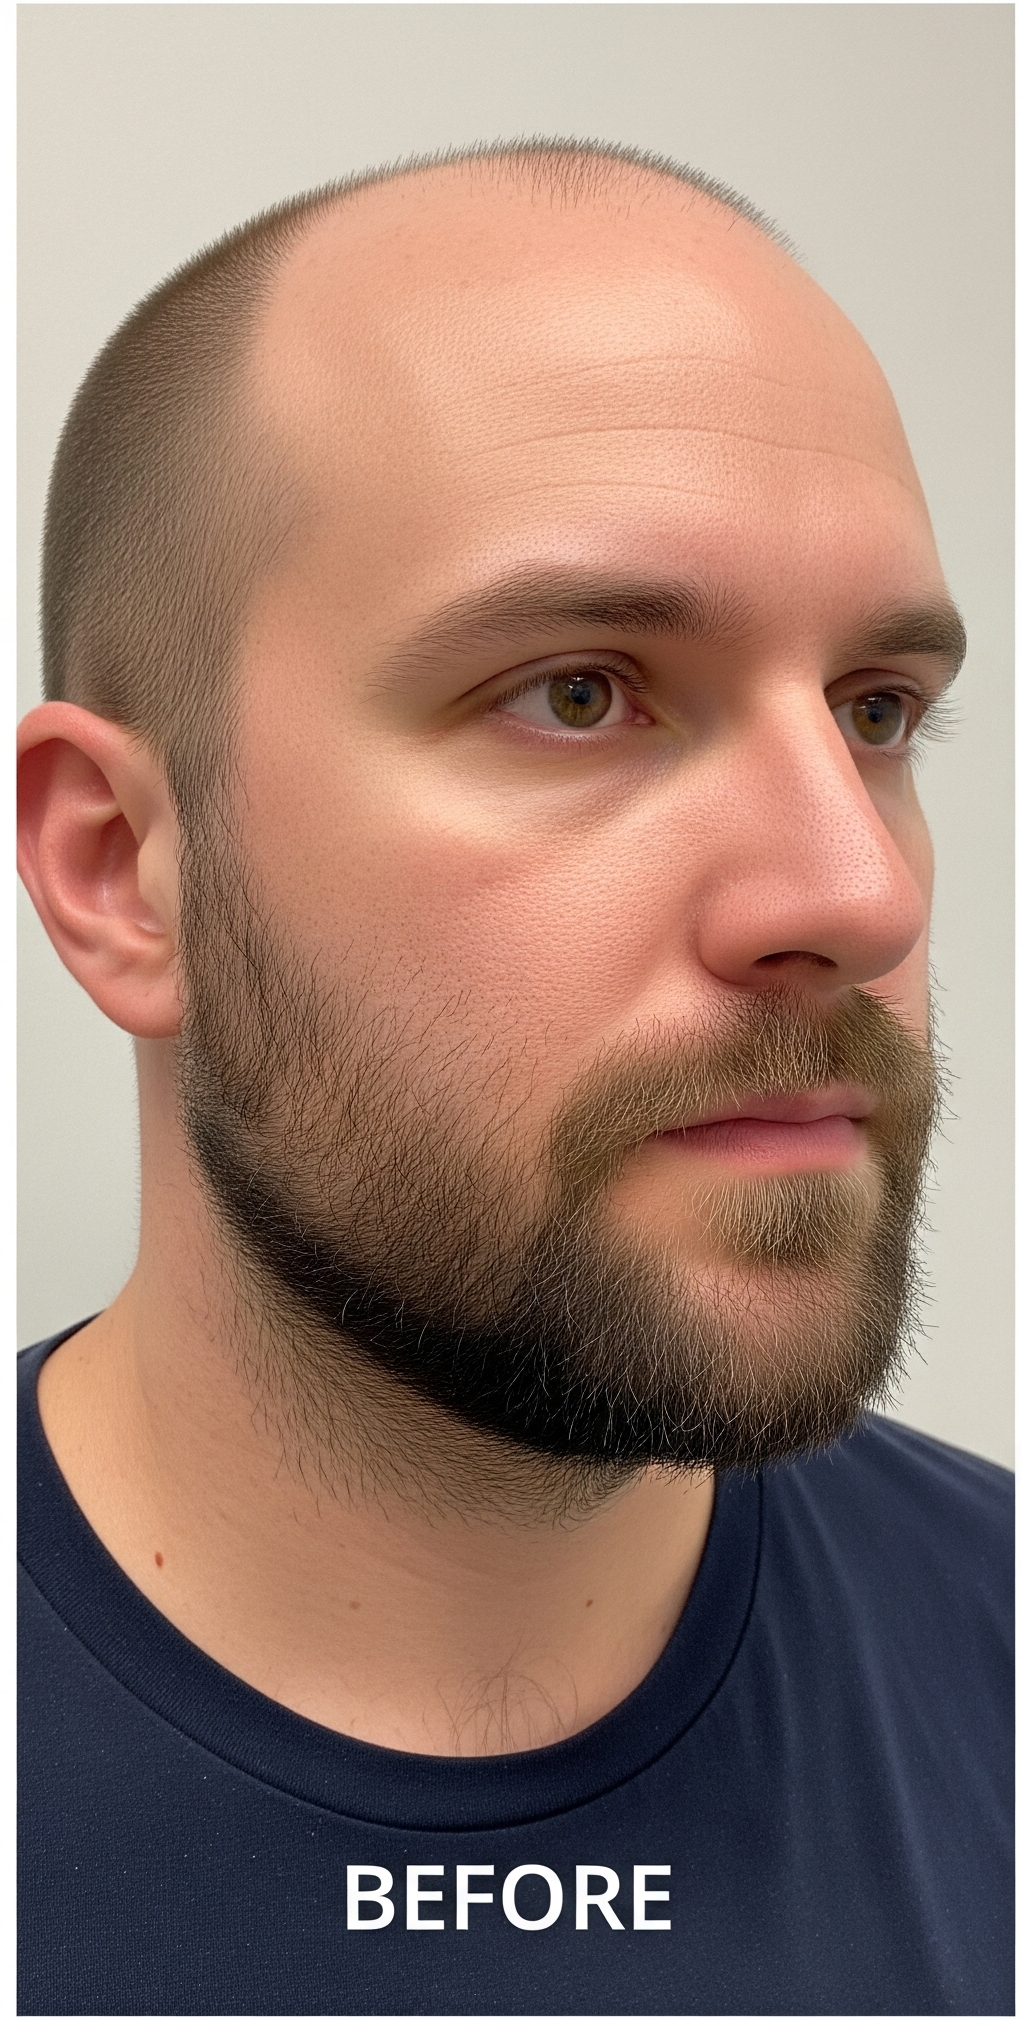
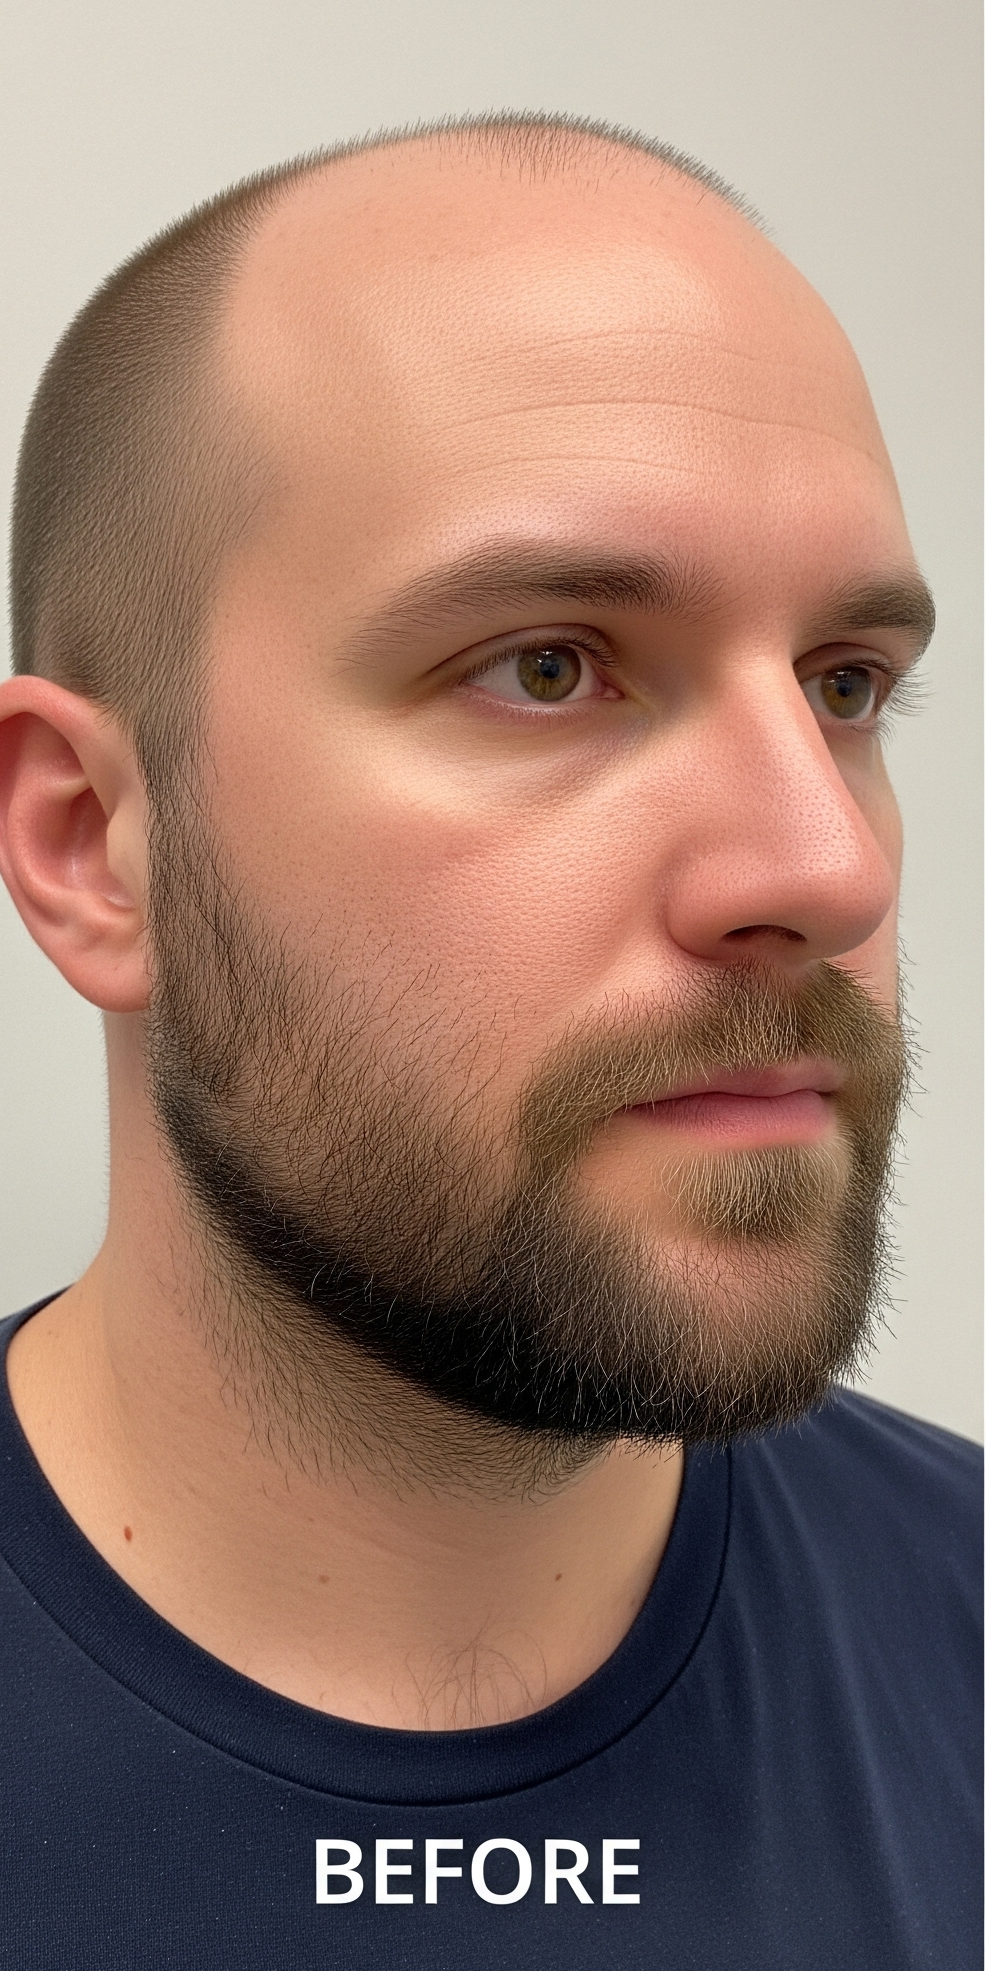
The NextJS app server is having trouble starting. Please identify what c

diff --git a/src/app/page.tsx b/src/app/page.tsx
@@ -3,32 +3,32 @@
 
 import * as React from 'react';
 import { useState, useEffect } from 'react';
+import dynamic from 'next/dynamic';
 import { Button } from "@/components/ui/button";
 import { Card, CardContent, CardHeader, CardTitle, CardDescription, CardFooter } from "@/components/ui/card";
-import {
-  Carousel,
-  CarouselContent,
-  CarouselItem,
-  CarouselNext,
-  CarouselPrevious,
-} from "@/components/ui/carousel";
-// Removed Autoplay import
 import { serviceData, allServices } from "@/lib/services"; 
 import Link from "next/link";
 import Image from "next/image";
 import { Cpu, Leaf, UsersRound, Star, ArrowRight } from "lucide-react";
 
+const DynamicCarousel = dynamic(() => import('@/components/ui/carousel').then(mod => mod.Carousel), { 
+  ssr: false, 
+  loading: () => <div className="text-center py-8"><p className="text-muted-foreground">Loading transformations gallery...</p></div> 
+});
+const DynamicCarouselContent = dynamic(() => import('@/components/ui/carousel').then(mod => mod.CarouselContent), { ssr: false });
+const DynamicCarouselItem = dynamic(() => import('@/components/ui/carousel').then(mod => mod.CarouselItem), { ssr: false });
+const DynamicCarouselPrevious = dynamic(() => import('@/components/ui/carousel').then(mod => mod.CarouselPrevious), { ssr: false });
+const DynamicCarouselNext = dynamic(() => import('@/components/ui/carousel').then(mod => mod.CarouselNext), { ssr: false });
+
+
 export default function HomePage() {
   const featuredServiceCategories = serviceData.slice(0, 3);
   const [isClient, setIsClient] = useState(false);
-  // Removed autoplayPluginRef
 
   useEffect(() => {
     setIsClient(true);
-    // Removed autoplay plugin initialization logic
   }, []);
 
-  // Use data from allServices for the carousel, increased to 6 items
   const transformations = allServices.slice(0, 6).map(service => ({
     id: service.id,
     treatment: service.name,
@@ -137,8 +137,8 @@ export default function HomePage() {
             </div>
             <div className="relative h-64 md:h-full w-full min-h-[300px] md:min-h-full">
               <Image
-                src="/images/prp-hair2.png"
-                alt="Welcoming clinic interior"
+                src="/images/about-us.jpeg"
+                alt="Nice looking women after treatments"
                 fill
                 className="object-cover"
                 data-ai-hint="clinic interior"
@@ -182,59 +182,51 @@ export default function HomePage() {
         <h2 className="text-4xl font-headline font-bold text-center mb-12 text-primary">
           Witness the Transformations
         </h2>
-        {isClient ? (
-          <Carousel
-            // Removed plugins prop
-            className="w-full max-w-xs sm:max-w-md md:max-w-xl lg:max-w-3xl xl:max-w-5xl mx-auto"
-            // Removed onMouseEnter and onMouseLeave
-            opts={{
-              align: "start",
-              loop: true,
-            }}
-          >
-            <CarouselContent className="-ml-1">
-              {transformations.map((transform, index) => (
-                <CarouselItem key={transform.id} className="pl-1 md:basis-1/2 lg:basis-1/3">
-                  <div className="p-1 h-full">
-                    <Card className="bg-card shadow-lg rounded-xl overflow-hidden animate-fadeIn h-full flex flex-col" style={{ animationDelay: `${0.1 * index}s` }}>
-                      <CardHeader>
-                        <CardTitle className="font-headline text-xl text-foreground">{transform.treatment}</CardTitle>
-                      </CardHeader>
-                      <CardContent className="flex-grow">
-                        <div className="grid grid-cols-2 gap-4 mb-4">
-                          <div>
-                            <p className="text-sm font-semibold text-center text-muted-foreground mb-1">Before</p>
-                            <div className="relative aspect-square w-full rounded-md overflow-hidden">
-                              <Image src={transform.beforeImageUrl} alt={`Before ${transform.treatment}`} fill className="object-cover" data-ai-hint={transform.beforeHint} />
-                            </div>
-                          </div>
-                          <div>
-                            <p className="text-sm font-semibold text-center text-muted-foreground mb-1">After</p>
-                            <div className="relative aspect-square w-full rounded-md overflow-hidden">
-                              <Image src={transform.afterImageUrl} alt={`After ${transform.treatment}`} fill className="object-cover" data-ai-hint={transform.afterHint} />
-                            </div>
+        <DynamicCarousel
+          className="w-full max-w-xs sm:max-w-md md:max-w-xl lg:max-w-3xl xl:max-w-5xl mx-auto"
+          opts={{
+            align: "start",
+            loop: true,
+          }}
+        >
+          <DynamicCarouselContent className="-ml-1">
+            {transformations.map((transform, index) => (
+              <DynamicCarouselItem key={transform.id} className="pl-1 md:basis-1/2 lg:basis-1/3">
+                <div className="p-1 h-full">
+                  <Card className="bg-card shadow-lg rounded-xl overflow-hidden animate-fadeIn h-full flex flex-col" style={{ animationDelay: `${0.1 * index}s` }}>
+                    <CardHeader>
+                      <CardTitle className="font-headline text-xl text-foreground">{transform.treatment}</CardTitle>
+                    </CardHeader>
+                    <CardContent className="flex-grow">
+                      <div className="grid grid-cols-2 gap-4 mb-4">
+                        <div>
+                          <p className="text-sm font-semibold text-center text-muted-foreground mb-1">Before</p>
+                          <div className="relative aspect-square w-full rounded-md overflow-hidden">
+                            <Image src={transform.beforeImageUrl} alt={`Before ${transform.treatment}`} fill className="object-cover" data-ai-hint={transform.beforeHint} />
                           </div>
                         </div>
-                        <p className="text-sm text-foreground/80">{transform.description}</p>
-                      </CardContent>
-                      <CardFooter>
-                         <Button asChild variant="link" className="text-accent p-0 hover:text-accent/80 ml-auto">
-                            <Link href={`/gallery#${transform.id}`}>View More <ArrowRight className="ml-1 h-4 w-4" /></Link>
-                          </Button>
-                      </CardFooter>
-                    </Card>
-                  </div>
-                </CarouselItem>
-              ))}
-            </CarouselContent>
-            <CarouselPrevious className="ml-[-10px] sm:ml-[-20px] md:ml-[-30px]" />
-            <CarouselNext className="mr-[-10px] sm:mr-[-20px] md:mr-[-30px]" />
-          </Carousel>
-        ) : (
-          <div className="text-center py-8">
-            <p className="text-muted-foreground">Loading transformations gallery...</p>
-          </div>
-        )}
+                        <div>
+                          <p className="text-sm font-semibold text-center text-muted-foreground mb-1">After</p>
+                          <div className="relative aspect-square w-full rounded-md overflow-hidden">
+                            <Image src={transform.afterImageUrl} alt={`After ${transform.treatment}`} fill className="object-cover" data-ai-hint={transform.afterHint} />
+                          </div>
+                        </div>
+                      </div>
+                      <p className="text-sm text-foreground/80">{transform.description}</p>
+                    </CardContent>
+                    <CardFooter>
+                       <Button asChild variant="link" className="text-accent p-0 hover:text-accent/80 ml-auto">
+                          <Link href={`/gallery#${transform.id}`}>View More <ArrowRight className="ml-1 h-4 w-4" /></Link>
+                        </Button>
+                    </CardFooter>
+                  </Card>
+                </div>
+              </DynamicCarouselItem>
+            ))}
+          </DynamicCarouselContent>
+          <DynamicCarouselPrevious className="ml-[-10px] sm:ml-[-20px] md:ml-[-30px]" />
+          <DynamicCarouselNext className="mr-[-10px] sm:mr-[-20px] md:mr-[-30px]" />
+        </DynamicCarousel>
         <div className="text-center mt-12">
           <Button asChild size="lg" className="bg-primary hover:bg-primary/90 text-primary-foreground">
             <Link href="/gallery">Explore Full Gallery</Link>

diff --git a/src/lib/services.ts b/src/lib/services.ts
@@ -35,7 +35,7 @@ export const serviceData: ServiceCategory[] = [
       { id: "beard-transplant", name: "Beard Transplant", description: commonDescription, imageBefore: "/images/beard-transplant.png", imageAfter: "/images/beard-transplant2.png", dataAiHint: "beard transplant", serviceType: "operation" },
       { id: "eyebrow-transplant", name: "Eyebrow Transplant", description: commonDescription, imageBefore: "/images/eyebrow-transplant.png", imageAfter: "/images/eyebrow-transplant2.png", dataAiHint: "eyebrow transplant", serviceType: "operation" },
       { id: "brow-lift", name: "Brow Lift", description: commonDescription, imageBefore: "/images/brow-lift.png", imageAfter: "/images/brow-lift2.png", dataAiHint: "brow lift", serviceType: "operation" },
-      { id: "blepharoplasty", name: "Eyelid Surgery (Blepharoplasty)", description: commonDescription, imageBefore: "/images/blepharoplasty.png", imageAfter: "/images/blepharoplasty2.png", dataAiHint: "eyelid surgery", serviceType: "operation" },
+      { id: "blepharoplasty", name: "Eyelid Surgery (Blepharoplasty)", description: commonDescription, imageBefore: "/images/blepharoplasty (2).png", imageAfter: "/images/blepharoplasty (3).png", dataAiHint: "eyelid surgery", serviceType: "operation" },
       { id: "face-lift", name: "Face Lift (Rhytidectomy)", description: commonDescription, imageBefore: "/images/face-lift.png", imageAfter: "/images/face-lift2.png", dataAiHint: "face lift", serviceType: "operation" },
       { id: "chin-reshaping-genioplasty", name: "Chin Reshaping (Genioplasty)", description: commonDescription, imageBefore: "/images/chin-reshaping-genioplasty.png", imageAfter: "/images/chin-reshaping-genioplasty2.png", dataAiHint: "chin reshaping", serviceType: "operation" },
       { id: "lip-reshaping", name: "Lip Reshaping", description: commonDescription, imageBefore: "/images/lip-reshaping.png", imageAfter: "/images/lip-reshaping2.png", dataAiHint: "lip reshaping", serviceType: "treatment" },
